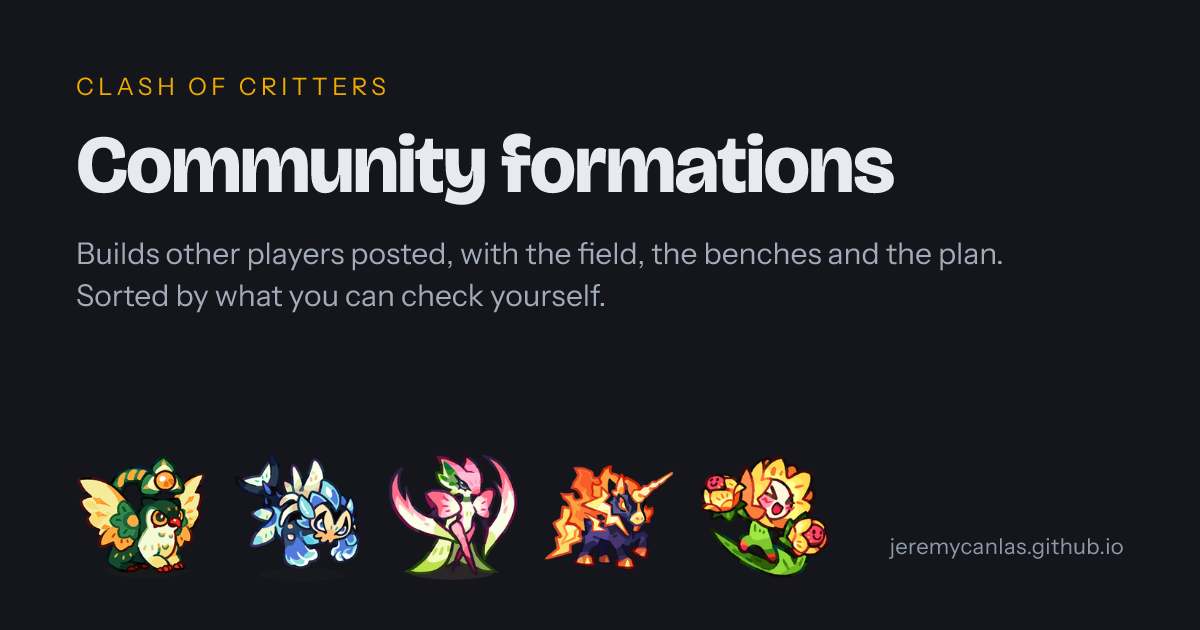
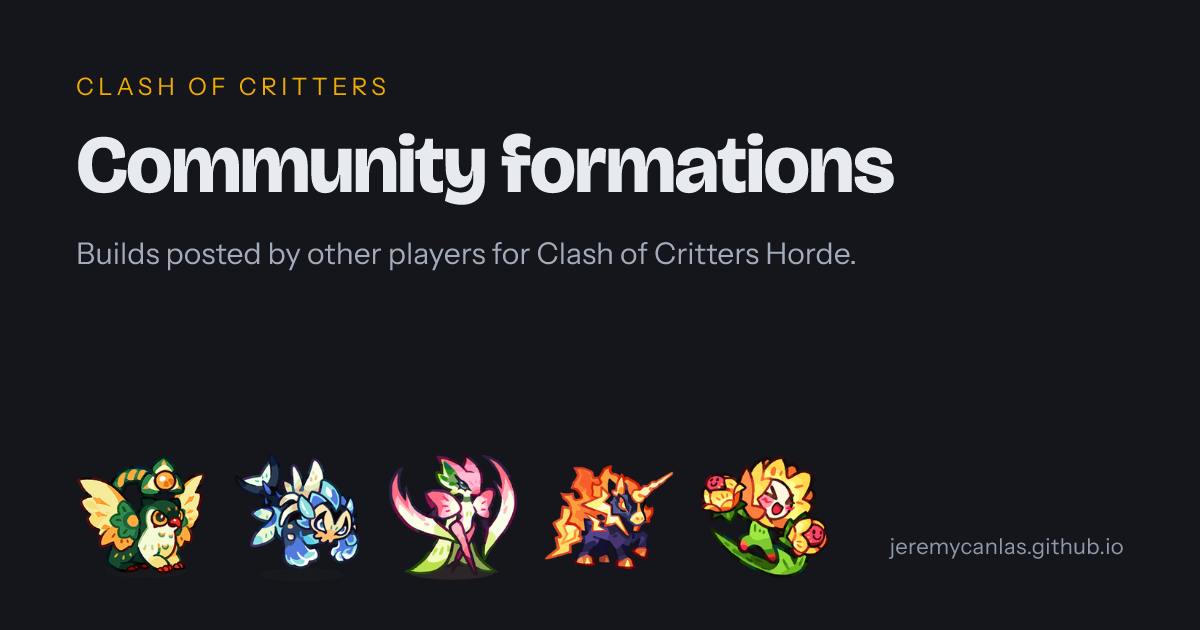
Community card: builds posted by other players
Claude-Session: https://claude.ai/code/session_01LEvAnnaT5a4WkG3Ujaz21i

Changed region(s): [[0.1233, 0.3619, 0.8325, 0.4222], [0.0617, 0.4524, 0.5242, 0.4825]]

diff --git a/community.html b/community.html
@@ -21,7 +21,7 @@
   <meta property="og:type" content="website">
   <meta property="og:site_name" content="Horde Drafter">
   <meta property="og:title" content="Community formations">
-  <meta property="og:description" content="Builds other players posted, with the field, the benches and the plan, ranked by what you can check yourself.">
+  <meta property="og:description" content="Builds posted by other players for Clash of Critters Horde.">
   <meta property="og:url" content="https://jeremycanlas.github.io/clash-of-critters-horde-planner/community.html">
   <meta property="og:image" content="https://jeremycanlas.github.io/clash-of-critters-horde-planner/assets/img/og/community.png">
   <meta property="og:image:width" content="1200">
